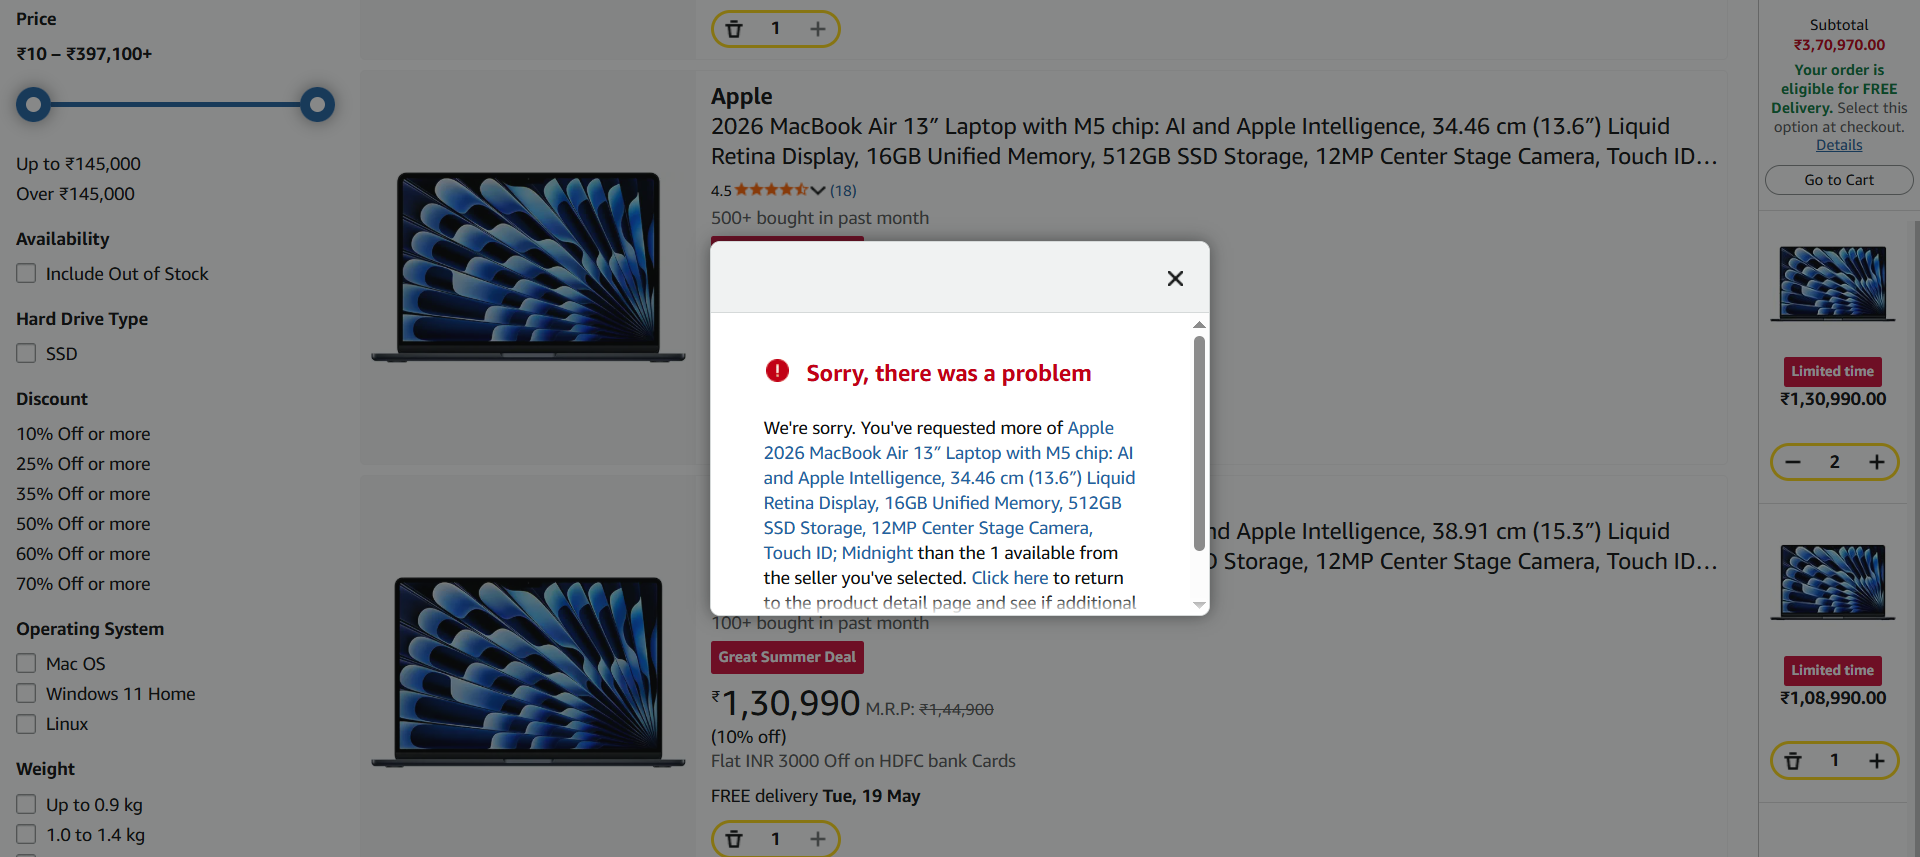
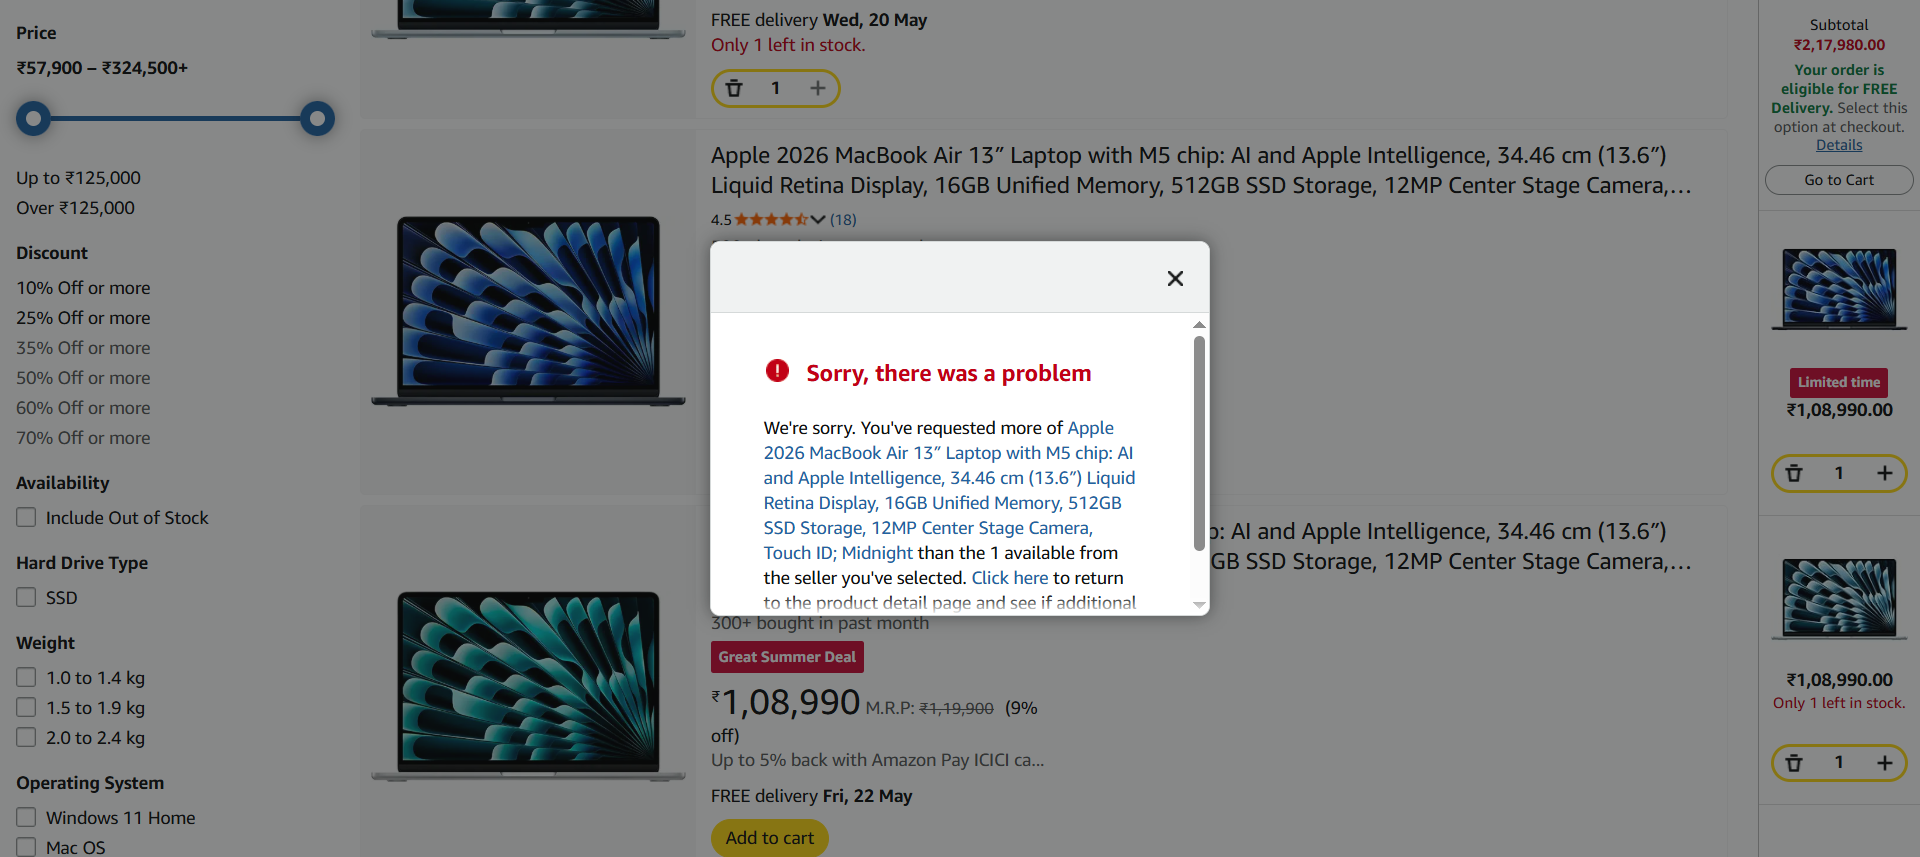
Commiting code

diff --git a/ExtentReports/extentReport.html b/ExtentReports/extentReport.html
@@ -35,7 +35,7 @@
 <a href="#"><span class="badge badge-primary">TestNG Practice Report</span></a>
 </li>
 <li class="m-r-10">
-<a href="#"><span class="badge badge-primary">May 14, 2026 04:48:58 PM</span></a>
+<a href="#"><span class="badge badge-primary">May 15, 2026 12:39:38 PM</span></a>
 </li>
 </ul>
 </div>
@@ -81,7 +81,7 @@
           <div class="test-detail">
             <p class="name">launchAmazon</p>
             <p class="text-sm">
-              <span>4:49:00 PM</span> / <span>00:00:01:271</span>
+              <span>12:39:40 PM</span> / <span>00:00:01:415</span>
               <span class="badge pass-bg log float-right">Pass</span>
             </p>
           </div>
@@ -90,9 +90,9 @@
 <div class="p-v-10">
 <div class="info">
 <h5 class="test-status text-pass">launchAmazon</h5>
-<span class='badge badge-success'>05.14.2026 4:49:00 PM</span>
-<span class='badge badge-danger'>05.14.2026 4:49:02 PM</span>
-<span class='badge badge-default'>00:00:01:271</span>
+<span class='badge badge-success'>05.15.2026 12:39:40 PM</span>
+<span class='badge badge-danger'>05.15.2026 12:39:41 PM</span>
+<span class='badge badge-default'>00:00:01:415</span>
 &middot; <span class='uri-anchor badge badge-default'>#test-id=1</span>
 <span title='Skip to the next failed step' class='badge badge-danger pointer float-right ne ml-1'><i class="fa fa-fast-forward"></i></span>
 <span title='Collapse all nodes' class='badge badge-default pointer float-right ct ml-1'><i class="fa fa-compress"></i></span>
@@ -105,7 +105,7 @@
   <tbody>
       <tr class="event-row">
         <td><span class="badge log pass-bg">Pass</span></td>
-        <td>4:49:02 PM</td>
+        <td>12:39:41 PM</td>
         <td>
           Test is passed
         </td>
@@ -122,7 +122,7 @@
           <div class="test-detail">
             <p class="name">search</p>
             <p class="text-sm">
-              <span>4:49:02 PM</span> / <span>00:00:04:647</span>
+              <span>12:39:41 PM</span> / <span>00:00:05:028</span>
               <span class="badge pass-bg log float-right">Pass</span>
             </p>
           </div>
@@ -131,9 +131,9 @@
 <div class="p-v-10">
 <div class="info">
 <h5 class="test-status text-pass">search</h5>
-<span class='badge badge-success'>05.14.2026 4:49:02 PM</span>
-<span class='badge badge-danger'>05.14.2026 4:49:06 PM</span>
-<span class='badge badge-default'>00:00:04:647</span>
+<span class='badge badge-success'>05.15.2026 12:39:41 PM</span>
+<span class='badge badge-danger'>05.15.2026 12:39:46 PM</span>
+<span class='badge badge-default'>00:00:05:028</span>
 &middot; <span class='uri-anchor badge badge-default'>#test-id=2</span>
 <span title='Skip to the next failed step' class='badge badge-danger pointer float-right ne ml-1'><i class="fa fa-fast-forward"></i></span>
 <span title='Collapse all nodes' class='badge badge-default pointer float-right ct ml-1'><i class="fa fa-compress"></i></span>
@@ -146,7 +146,7 @@
   <tbody>
       <tr class="event-row">
         <td><span class="badge log pass-bg">Pass</span></td>
-        <td>4:49:06 PM</td>
+        <td>12:39:46 PM</td>
         <td>
           Test is passed
         </td>
@@ -163,7 +163,7 @@
           <div class="test-detail">
             <p class="name">addToCart</p>
             <p class="text-sm">
-              <span>4:49:06 PM</span> / <span>00:00:13:799</span>
+              <span>12:39:46 PM</span> / <span>00:00:09:259</span>
               <span class="badge pass-bg log float-right">Pass</span>
             </p>
           </div>
@@ -172,9 +172,9 @@
 <div class="p-v-10">
 <div class="info">
 <h5 class="test-status text-pass">addToCart</h5>
-<span class='badge badge-success'>05.14.2026 4:49:06 PM</span>
-<span class='badge badge-danger'>05.14.2026 4:49:20 PM</span>
-<span class='badge badge-default'>00:00:13:799</span>
+<span class='badge badge-success'>05.15.2026 12:39:46 PM</span>
+<span class='badge badge-danger'>05.15.2026 12:39:56 PM</span>
+<span class='badge badge-default'>00:00:09:259</span>
 &middot; <span class='uri-anchor badge badge-default'>#test-id=3</span>
 <span title='Skip to the next failed step' class='badge badge-danger pointer float-right ne ml-1'><i class="fa fa-fast-forward"></i></span>
 <span title='Collapse all nodes' class='badge badge-default pointer float-right ct ml-1'><i class="fa fa-compress"></i></span>
@@ -187,7 +187,7 @@
   <tbody>
       <tr class="event-row">
         <td><span class="badge log pass-bg">Pass</span></td>
-        <td>4:49:20 PM</td>
+        <td>12:39:56 PM</td>
         <td>
           Test is passed
         </td>
@@ -204,7 +204,7 @@
           <div class="test-detail">
             <p class="name">cartPage</p>
             <p class="text-sm">
-              <span>4:49:20 PM</span> / <span>00:00:02:780</span>
+              <span>12:39:56 PM</span> / <span>00:00:02:512</span>
               <span class="badge pass-bg log float-right">Pass</span>
             </p>
           </div>
@@ -213,9 +213,9 @@
 <div class="p-v-10">
 <div class="info">
 <h5 class="test-status text-pass">cartPage</h5>
-<span class='badge badge-success'>05.14.2026 4:49:20 PM</span>
-<span class='badge badge-danger'>05.14.2026 4:49:23 PM</span>
-<span class='badge badge-default'>00:00:02:780</span>
+<span class='badge badge-success'>05.15.2026 12:39:56 PM</span>
+<span class='badge badge-danger'>05.15.2026 12:39:58 PM</span>
+<span class='badge badge-default'>00:00:02:512</span>
 &middot; <span class='uri-anchor badge badge-default'>#test-id=4</span>
 <span title='Skip to the next failed step' class='badge badge-danger pointer float-right ne ml-1'><i class="fa fa-fast-forward"></i></span>
 <span title='Collapse all nodes' class='badge badge-default pointer float-right ct ml-1'><i class="fa fa-compress"></i></span>
@@ -228,7 +228,7 @@
   <tbody>
       <tr class="event-row">
         <td><span class="badge log pass-bg">Pass</span></td>
-        <td>4:49:23 PM</td>
+        <td>12:39:58 PM</td>
         <td>
           Test is passed
         </td>
@@ -252,13 +252,13 @@
 <div class="col-md-3">
 <div class="card"><div class="card-body">
 <p class="m-b-0">Started</p>
-<h3>May 14, 2026 04:48:58 PM</h3>
+<h3>May 15, 2026 12:39:38 PM</h3>
 </div></div>
 </div>
 <div class="col-md-3">
 <div class="card"><div class="card-body">
 <p class="m-b-0">Ended</p>
-<h3>May 14, 2026 04:49:23 PM</h3>
+<h3>May 15, 2026 12:39:59 PM</h3>
 </div></div>
 </div>
 <div class="col-md-3">
@@ -328,7 +328,7 @@
 </div></div>
 <script>
 var timeline = {
-"launchAmazon":1.271,"search":4.647,"addToCart":13.799,"cartPage":2.78
+"launchAmazon":1.415,"search":5.028,"addToCart":9.259,"cartPage":2.512
 };
 </script>
 <div class="row">

diff --git a/test-output/index.html b/test-output/index.html
@@ -50,7 +50,7 @@
               <ul>
                 <li>
                   <a href="#" panel-name="test-xml-Default_suite" class="navigator-link ">
-                    <span>C:\Users\Sudhakar M\AppData\Local\Temp\testng-eclipse--284233382\testng-customsuite.xml</span>
+                    <span>C:\Users\Sudhakar M\AppData\Local\Temp\testng-eclipse-402490192\testng-customsuite.xml</span>
                   </a> <!-- navigator-link  -->
                 </li>
                 <li>
@@ -172,7 +172,7 @@
         </div> <!-- panel Default_suite -->
         <div panel-name="test-xml-Default_suite" class="panel">
           <div class="main-panel-header rounded-window-top">
-            <span class="header-content">C:\Users\Sudhakar M\AppData\Local\Temp\testng-eclipse--284233382\testng-customsuite.xml</span>
+            <span class="header-content">C:\Users\Sudhakar M\AppData\Local\Temp\testng-eclipse-402490192\testng-customsuite.xml</span>
           </div> <!-- main-panel-header rounded-window-top -->
           <div class="main-panel-content rounded-window-bottom">
             <pre>
@@ -225,24 +225,24 @@ data.addRows(4);
 data.setCell(0, 0, 0)
 data.setCell(0, 1, 'addToCart')
 data.setCell(0, 2, 'TestNG_Practice.DependsOnMethods')
-data.setCell(0, 3, 13797);
+data.setCell(0, 3, 9255);
 data.setCell(1, 0, 1)
 data.setCell(1, 1, 'search')
 data.setCell(1, 2, 'TestNG_Practice.DependsOnMethods')
-data.setCell(1, 3, 4636);
+data.setCell(1, 3, 5015);
 data.setCell(2, 0, 2)
 data.setCell(2, 1, 'cartPage')
 data.setCell(2, 2, 'TestNG_Practice.DependsOnMethods')
-data.setCell(2, 3, 2779);
+data.setCell(2, 3, 2510);
 data.setCell(3, 0, 3)
 data.setCell(3, 1, 'launchAmazon')
 data.setCell(3, 2, 'TestNG_Practice.DependsOnMethods')
-data.setCell(3, 3, 1264);
+data.setCell(3, 3, 1410);
 window.suiteTableData['Default_suite']= { tableData: data, tableDiv: 'times-div-Default_suite'}
 return data;
 }
               </script>
-              <span class="suite-total-time">Total running time: 22 seconds</span>
+              <span class="suite-total-time">Total running time: 18 seconds</span>
               <div id="times-div-Default_suite">
               </div> <!-- times-div-Default_suite -->
             </div> <!-- times-div -->
@@ -275,23 +275,23 @@ return data;
               </div> <!-- configuration-test before -->
               <div class="test-method">
                 <span class="method-name">launchAmazon</span>
-                <span class="method-start">1778 ms</span>
+                <span class="method-start">1862 ms</span>
               </div> <!-- test-method -->
               <div class="test-method">
                 <span class="method-name">search</span>
-                <span class="method-start">3063 ms</span>
+                <span class="method-start">3288 ms</span>
               </div> <!-- test-method -->
               <div class="test-method">
                 <span class="method-name">addToCart</span>
-                <span class="method-start">7719 ms</span>
+                <span class="method-start">8319 ms</span>
               </div> <!-- test-method -->
               <div class="test-method">
                 <span class="method-name">cartPage</span>
-                <span class="method-start">21524 ms</span>
+                <span class="method-start">17581 ms</span>
               </div> <!-- test-method -->
               <div class="configuration-test after">
                 <span class="method-name">tearDown</span>
-                <span class="method-start">24308 ms</span>
+                <span class="method-start">20096 ms</span>
               </div> <!-- configuration-test after -->
           </div> <!-- main-panel-content rounded-window-bottom -->
         </div> <!-- panel -->

diff --git a/test-output/emailable-report.html b/test-output/emailable-report.html
@@ -9,9 +9,9 @@
 <table>
 <tr><th>Test</th><th># Passed</th><th># Skipped</th><th># Retried</th><th># Failed</th><th>Time (ms)</th><th>Included Groups</th><th>Excluded Groups</th></tr>
 <tr><th colspan="8">Default suite</th></tr>
-<tr><td><a href="#t0">Default test</a></td><td class="num">4</td><td class="num">0</td><td class="num">0</td><td class="num">0</td><td class="num">24,707</td><td></td><td></td></tr>
+<tr><td><a href="#t0">Default test</a></td><td class="num">4</td><td class="num">0</td><td class="num">0</td><td class="num">0</td><td class="num">20,434</td><td></td><td></td></tr>
 </table>
-<table id='summary'><thead><tr><th>Class</th><th>Method</th><th>Start</th><th>Time (ms)</th></tr></thead><tbody><tr><th colspan="4">Default suite</th></tr></tbody><tbody id="t0"><tr><th colspan="4">Default test &#8212; passed</th></tr><tr class="passedeven"><td rowspan="4">TestNG_Practice.DependsOnMethods</td><td><a href="#m0">addToCart</a></td><td rowspan="1">1778757546874</td><td rowspan="1">13797</td></tr><tr class="passedeven"><td><a href="#m1">cartPage</a></td><td rowspan="1">1778757560679</td><td rowspan="1">2779</td></tr><tr class="passedeven"><td><a href="#m2">launchAmazon</a></td><td rowspan="1">1778757540933</td><td rowspan="1">1264</td></tr><tr class="passedeven"><td><a href="#m3">search</a></td><td rowspan="1">1778757542218</td><td rowspan="1">4636</td></tr></tbody>
+<table id='summary'><thead><tr><th>Class</th><th>Method</th><th>Start</th><th>Time (ms)</th></tr></thead><tbody><tr><th colspan="4">Default suite</th></tr></tbody><tbody id="t0"><tr><th colspan="4">Default test &#8212; passed</th></tr><tr class="passedeven"><td rowspan="4">TestNG_Practice.DependsOnMethods</td><td><a href="#m0">addToCart</a></td><td rowspan="1">1778828986947</td><td rowspan="1">9255</td></tr><tr class="passedeven"><td><a href="#m1">cartPage</a></td><td rowspan="1">1778828996209</td><td rowspan="1">2510</td></tr><tr class="passedeven"><td><a href="#m2">launchAmazon</a></td><td rowspan="1">1778828980490</td><td rowspan="1">1410</td></tr><tr class="passedeven"><td><a href="#m3">search</a></td><td rowspan="1">1778828981916</td><td rowspan="1">5015</td></tr></tbody>
 </table>
 <h2>Default test</h2><h3 id="m0">TestNG_Practice.DependsOnMethods#addToCart</h3><table class="result"><tr><th class="invisible"/></tr></table><p class="totop"><a href="#summary">back to summary</a></p>
 <h3 id="m1">TestNG_Practice.DependsOnMethods#cartPage</h3><table class="result"><tr><th class="invisible"/></tr></table><p class="totop"><a href="#summary">back to summary</a></p>

diff --git a/test-output/Default suite/Default test.html b/test-output/Default suite/Default test.html
@@ -57,9 +57,9 @@ function toggleAllBoxes() {
 <tr>
 <td>Tests passed/Failed/Skipped:</td><td>4/0/0</td>
 </tr><tr>
-<td>Started on:</td><td>Thu May 14 16:48:59 IST 2026</td>
+<td>Started on:</td><td>Fri May 15 12:39:38 IST 2026</td>
 </tr>
-<tr><td>Total time:</td><td>24 seconds (24707 ms)</td>
+<tr><td>Total time:</td><td>20 seconds (20434 ms)</td>
 </tr><tr>
 <td>Included groups:</td><td></td>
 </tr><tr>
@@ -76,24 +76,24 @@ function toggleAllBoxes() {
 <td><b>Instance</b></td>
 </tr>
 <tr>
-<td title='TestNG_Practice.DependsOnMethods.cartPage()'><b>cartPage</b><br>Test class: TestNG_Practice.DependsOnMethods</td>
+<td title='TestNG_Practice.DependsOnMethods.addToCart()'><b>addToCart</b><br>Test class: TestNG_Practice.DependsOnMethods</td>
 <td></td>
-<td>2</td>
+<td>9</td>
 <td>TestNG_Practice.DependsOnMethods@45752059</td></tr>
 <tr>
 <td title='TestNG_Practice.DependsOnMethods.search()'><b>search</b><br>Test class: TestNG_Practice.DependsOnMethods</td>
 <td></td>
-<td>4</td>
-<td>TestNG_Practice.DependsOnMethods@45752059</td></tr>
-<tr>
-<td title='TestNG_Practice.DependsOnMethods.addToCart()'><b>addToCart</b><br>Test class: TestNG_Practice.DependsOnMethods</td>
-<td></td>
-<td>13</td>
+<td>5</td>
 <td>TestNG_Practice.DependsOnMethods@45752059</td></tr>
 <tr>
 <td title='TestNG_Practice.DependsOnMethods.launchAmazon()'><b>launchAmazon</b><br>Test class: TestNG_Practice.DependsOnMethods</td>
 <td></td>
 <td>1</td>
+<td>TestNG_Practice.DependsOnMethods@45752059</td></tr>
+<tr>
+<td title='TestNG_Practice.DependsOnMethods.cartPage()'><b>cartPage</b><br>Test class: TestNG_Practice.DependsOnMethods</td>
+<td></td>
+<td>2</td>
 <td>TestNG_Practice.DependsOnMethods@45752059</td></tr>
 </table><p>
 </body>

diff --git a/src/test/java/TestNG_Practice/DependsOnMethods.java b/src/test/java/TestNG_Practice/DependsOnMethods.java
@@ -49,7 +49,7 @@ public class DependsOnMethods extends Utils {
 	public void search() {
 
 		WebElement search = driver.findElement(By.xpath("//input[@id='twotabsearchtextbox']"));
-		search.sendKeys("iphone 17 pro max" + Keys.ENTER);
+		search.sendKeys("apple air m13 " + Keys.ENTER);
 
 	}
 
